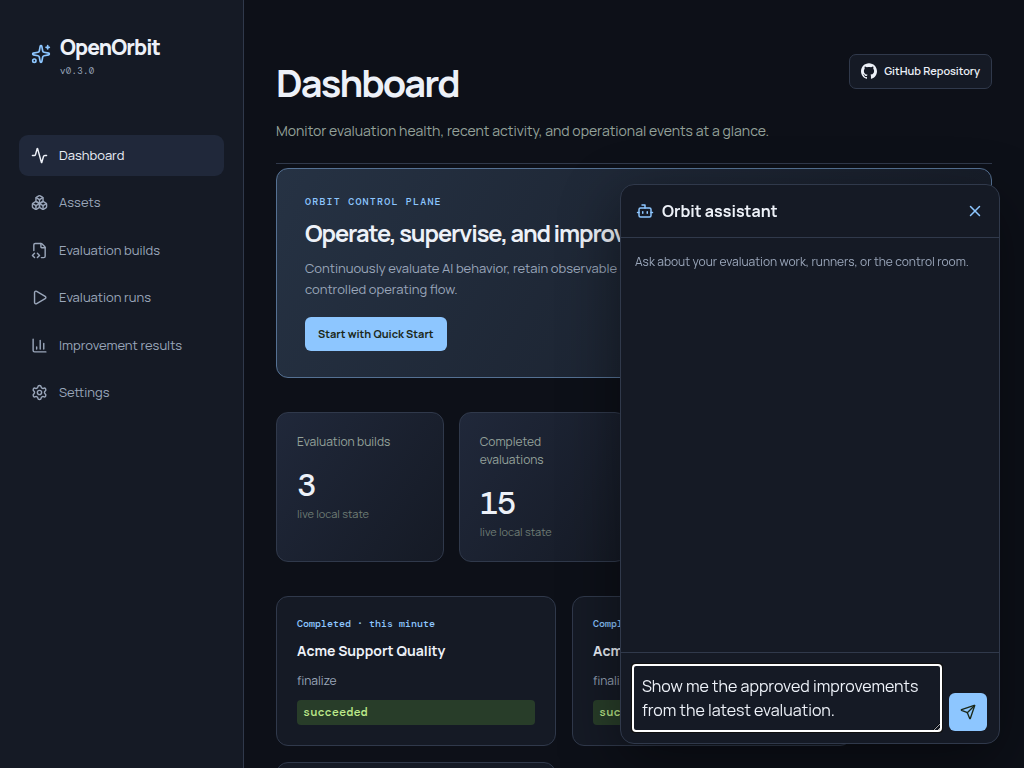
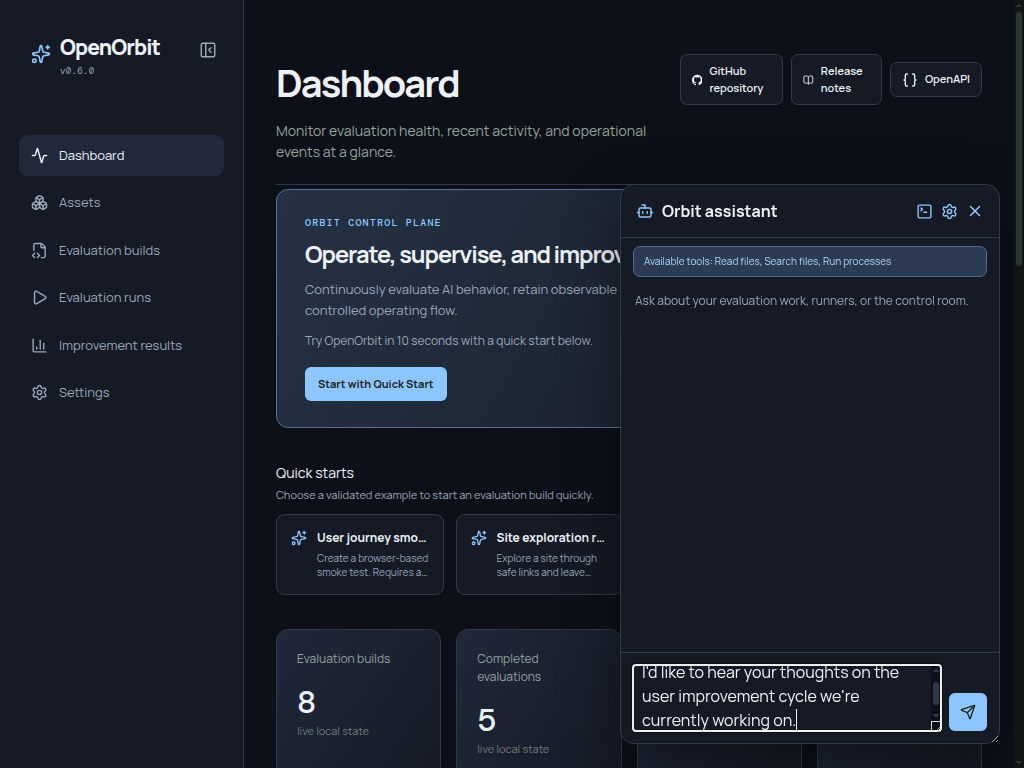
docs: refresh Orbit Assistant product-tour image

diff --git a/docs/README_MEDIA.md b/docs/README_MEDIA.md
@@ -1,0 +1,45 @@
+# README product-tour media
+
+Product-tour screenshots in the README should show the current interface and be
+reproducible from sanitized local data. Do not capture a personal workspace,
+real API credentials, or private conversations.
+
+## Orbit Assistant dashboard image
+
+`docs/images/chat-assistant-question.png` is a 1024 × 768 PNG showing the
+Dashboard with the Orbit Assistant open. Capture it with the interface set to
+English and the following draft message entered, but not sent:
+
+> I'd like to hear your thoughts on the user improvement cycle we're currently
+> working on.
+
+### Preparation
+
+1. Use the maintained, sanitized test AppData that contains representative
+   evaluation data. Set it explicitly; never rely on a personal default data
+   directory.
+2. Start the locally built application on port 3080:
+
+   ```bash
+   ORBIT_APP_DATA=/path/to/sanitized-test-app-data \
+     uv run uvicorn app.main:app --app-dir backend --host 127.0.0.1 --port 3080
+   ```
+
+3. Use Selenium with a headless Chrome browser. Set its emulated viewport to
+   exactly 1024 × 768 at device scale factor 1, then save the viewport directly
+   to `docs/images/chat-assistant-question.png`. Do not resize or crop it after
+   capture.
+
+### Capture steps
+
+1. Open `http://127.0.0.1:3080/#dashboard`.
+2. Set `orbit.locale` in local storage to `en`, clear the stored Assistant
+   position values, and reload. This keeps the default Assistant placement
+   reproducible.
+3. Open **Orbit assistant** and enter the draft message above without sending
+   it.
+4. Save a 1024 × 768 PNG and visually confirm that the Dashboard, the open
+   Assistant, its available-tools summary, and the draft message are readable.
+
+Before committing, verify the image dimensions and inspect the final image for
+credentials, private paths, personal data, or stale UI.
